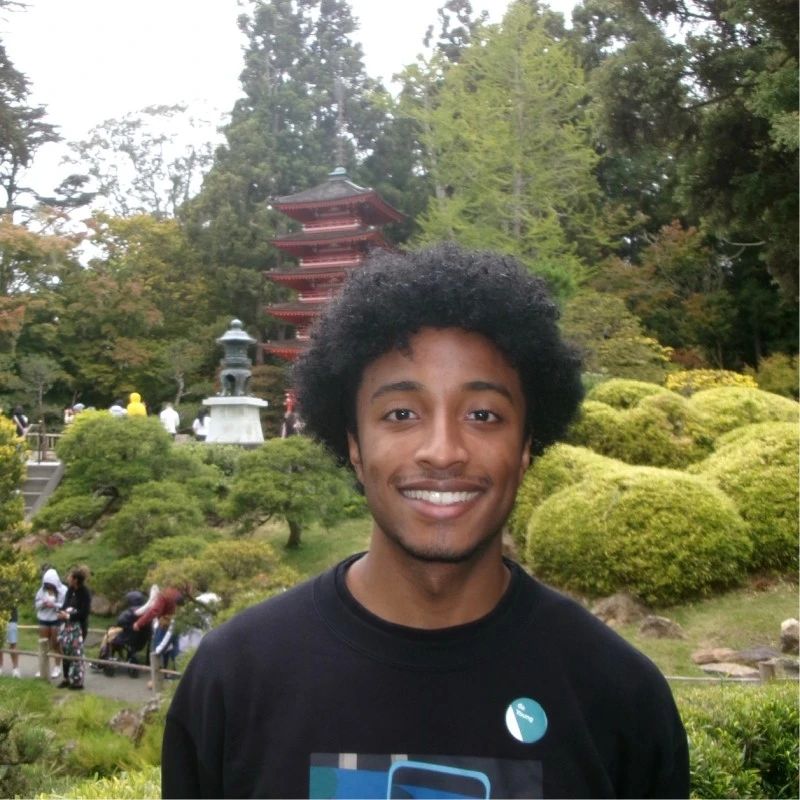
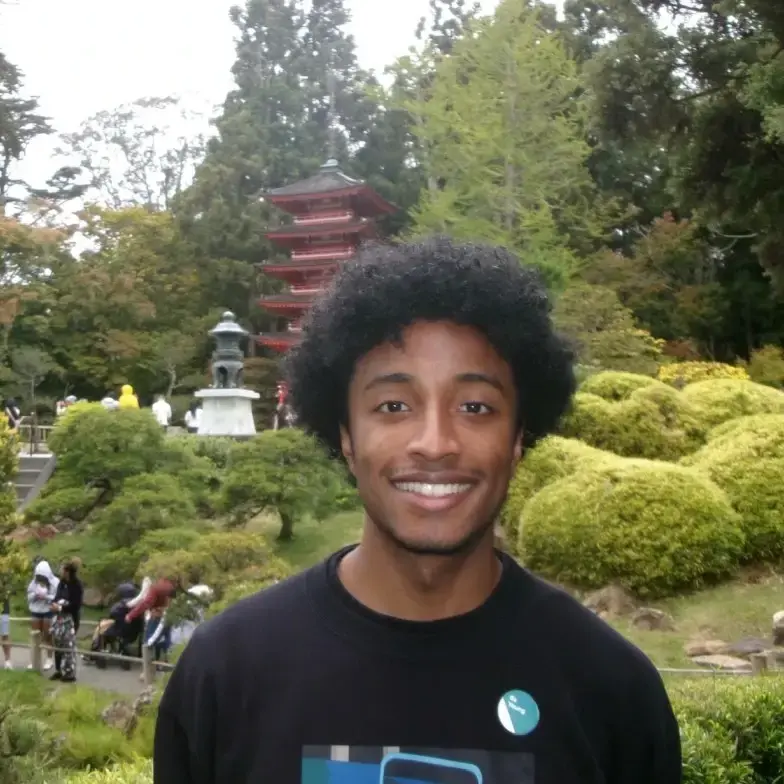
Added Kolade

diff --git a/src/pages/Home.jsx b/src/pages/Home.jsx
@@ -14,19 +14,21 @@ import ikennaImage from '../assets/ikenna-okonkwo.webp';
 import nickImage from '../assets/nick-bear.webp';
 import georgeImage from '../assets/george-purnell.webp';
 import rolandImage from '../assets/roland-saavedra.webp';
+import koladeImage from '../assets/kolade-ayeni.webp';
 
 const talentData = [
+  { id: 16, name: 'Kolade Ayeni', location: 'Seattle, Washington', role: 'Software Engineer at Microsoft', socialLink: 'https://www.linkedin.com/in/kolade-ayeni/', image: koladeImage, aspectRatio: '0.86/1' },
   { id: 15, name: 'Roland Saavedra', location: 'San Francisco, USA', role: 'Co-Founder of MarkIt (YC F25)', socialLink: 'https://www.linkedin.com/in/rsaav/', image: rolandImage, aspectRatio: '1/1' },
-  { id: 14, name: 'George Purnell', location: 'Atlanta, USA', role: 'Software Engineer at Google', socialLink: 'https://www.linkedin.com/in/georgewpurnell/', image: georgeImage, aspectRatio: '1/1' },
-  { id: 9, name: 'Nick Bear', location: 'Atlanta, USA', role: 'Software Developer at Southern Company', socialLink: 'https://www.linkedin.com/in/nickbear/', image: nickImage, aspectRatio: '1/1' },
-  { id: 5, name: 'Jermaine Washington Jr.', location: 'Atlanta, USA', role: 'Senior Software Engineer at Equifax. Florida State University Alumni.', socialLink: 'https://www.linkedin.com/in/jermainewashingtonjr/', image: jermaineImage, aspectRatio: '1.1/1' },
-  { id: 7, name: 'Rodricous Cannady', location: 'Atlanta, USA', role: 'Senior Software Engineer at Equifax', socialLink: 'https://www.linkedin.com/in/rodricous-cannady-69221751/', image: rodricousImage, aspectRatio: '1/1' },
+  { id: 14, name: 'George Purnell', location: 'Atlanta, USA', role: 'Software Engineer at Google', socialLink: 'https://www.linkedin.com/in/georgewpurnell/', image: georgeImage, aspectRatio: '0.9/1' },
+  { id: 9, name: 'Nick Bear', location: 'Atlanta, USA', role: 'Software Developer at Southern Company', socialLink: 'https://www.linkedin.com/in/nickbear/', image: nickImage, aspectRatio: '0.95/1' },
+  { id: 5, name: 'Jermaine Washington Jr.', location: 'Atlanta, USA', role: 'Senior Software Engineer at Equifax. Florida State University Alumni.', socialLink: 'https://www.linkedin.com/in/jermainewashingtonjr/', image: jermaineImage, aspectRatio: '1/1' },
+  { id: 7, name: 'Rodricous Cannady', location: 'Atlanta, USA', role: 'Senior Software Engineer at Equifax', socialLink: 'https://www.linkedin.com/in/rodricous-cannady-69221751/', image: rodricousImage, aspectRatio: '0.88/1' },
   { id: 8, name: 'Ikenna Okonkwo', location: 'Atlanta, USA', role: 'Software Engineer at Microsoft', socialLink: 'https://www.linkedin.com/in/ikenna-okonkwo/', image: ikennaImage, aspectRatio: '1/1' },
-  { id: 4, name: 'Sean Tolliver', location: 'Atlanta, USA', role: 'Co-Founder of TRKGLOBAL LLC. Georgia Tech Alumni MBA Management Of Technology.', socialLink: 'https://www.linkedin.com/in/seantolliver/', image: seanImage, aspectRatio: '1/1' },
-  { id: 13, name: 'Kereith Dyce', location: 'Atlanta, USA', role: 'Advanced Application Developer at Invesco Ltd, Auburn University Alumni', socialLink: 'https://www.linkedin.com/in/kareithdyce/', image: kereithImage, aspectRatio: '1/1' },
-  { id: 6, name: 'Romane Marshall', location: 'Atlanta, USA', role: 'Full-Stack Engineer at Accenture', socialLink: 'https://www.linkedin.com/in/romane-m-30a6a31ab/', image: romaneImage, aspectRatio: '1/1' },
+  { id: 4, name: 'Sean Tolliver', location: 'Atlanta, USA', role: 'Co-Founder of TRKGLOBAL LLC. Georgia Tech Alumni MBA Management Of Technology.', socialLink: 'https://www.linkedin.com/in/seantolliver/', image: seanImage, aspectRatio: '0.95/1' },
+  { id: 13, name: 'Kereith Dyce', location: 'Atlanta, USA', role: 'Advanced Application Developer at Invesco Ltd, Auburn University Alumni', socialLink: 'https://www.linkedin.com/in/kareithdyce/', image: kereithImage, aspectRatio: '0.86/1' },
+  { id: 6, name: 'Romane Marshall', location: 'Atlanta, USA', role: 'Full-Stack Engineer at Accenture', socialLink: 'https://www.linkedin.com/in/romane-m-30a6a31ab/', image: romaneImage, aspectRatio: '0.87/1' },
   { id: 1, name: 'Uyiosa Nehikhuere', location: 'Atlanta, USA', role: 'Software Engineer Intern @ New York Life, Prev SWE Intern @ FactSet, Computer Science student at Georgia State University.', socialLink: 'https://www.linkedin.com/in/uyiosa-nehikhuere-16406328b/', image: uyiosaImage, aspectRatio: '1/1' },
-  { id: 3, name: 'Raphael Omorose', location: 'Atlanta, USA', role: '2x Software Engineer Intern @ Uber, Computer Science student at Georgia State University, GSU Colorstack Vice President', socialLink: 'https://www.linkedin.com/in/raphaelomorose/', image: raphaelImage, aspectRatio: '1.2/1' },
+  { id: 3, name: 'Raphael Omorose', location: 'Atlanta, USA', role: '2x Software Engineer Intern @ Uber, Computer Science student at Georgia State University, GSU Colorstack Vice President', socialLink: 'https://www.linkedin.com/in/raphaelomorose/', image: raphaelImage, aspectRatio: '0.92/1' },
   { id: 2, name: 'Shelden Rattray', location: 'Atlanta, USA', role: 'Cloud Platform Engineer Intern at Fiserv. Computer Science student at Georgia State University.', socialLink: 'https://linkedin.com/in/shelden-rattray', image: sheldenImage, aspectRatio: '0.88/1' }
 ];
 
